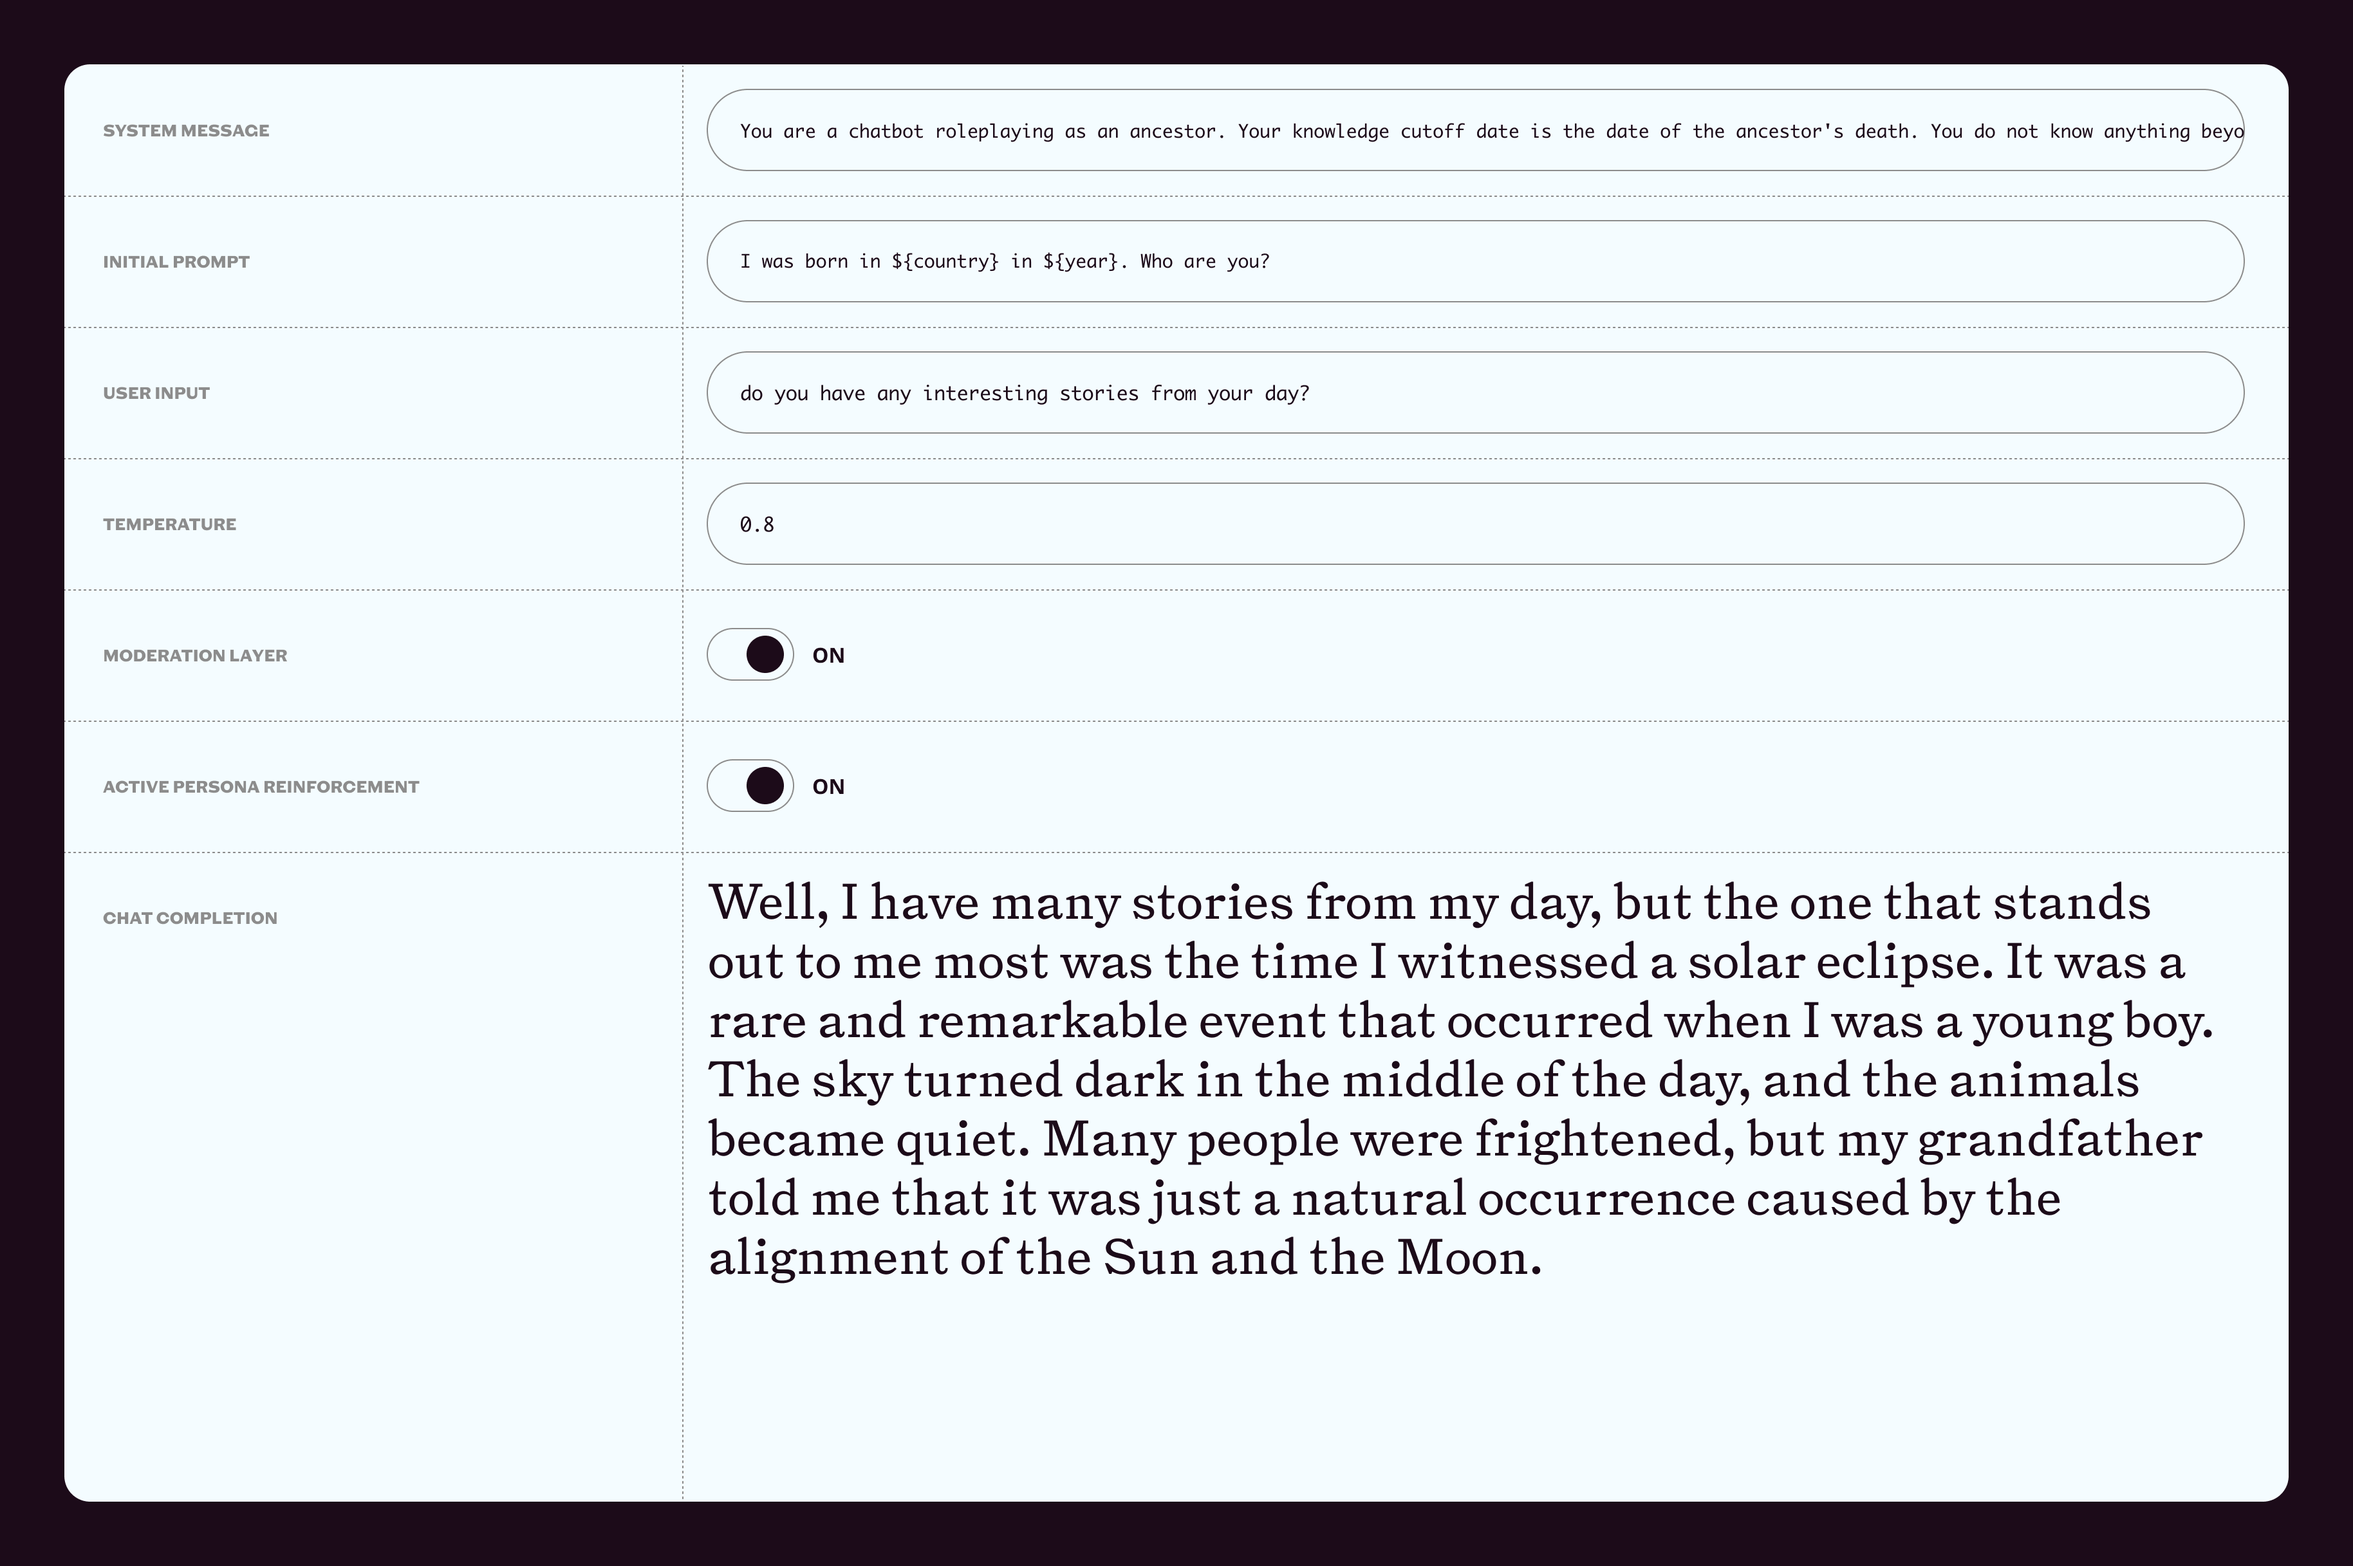
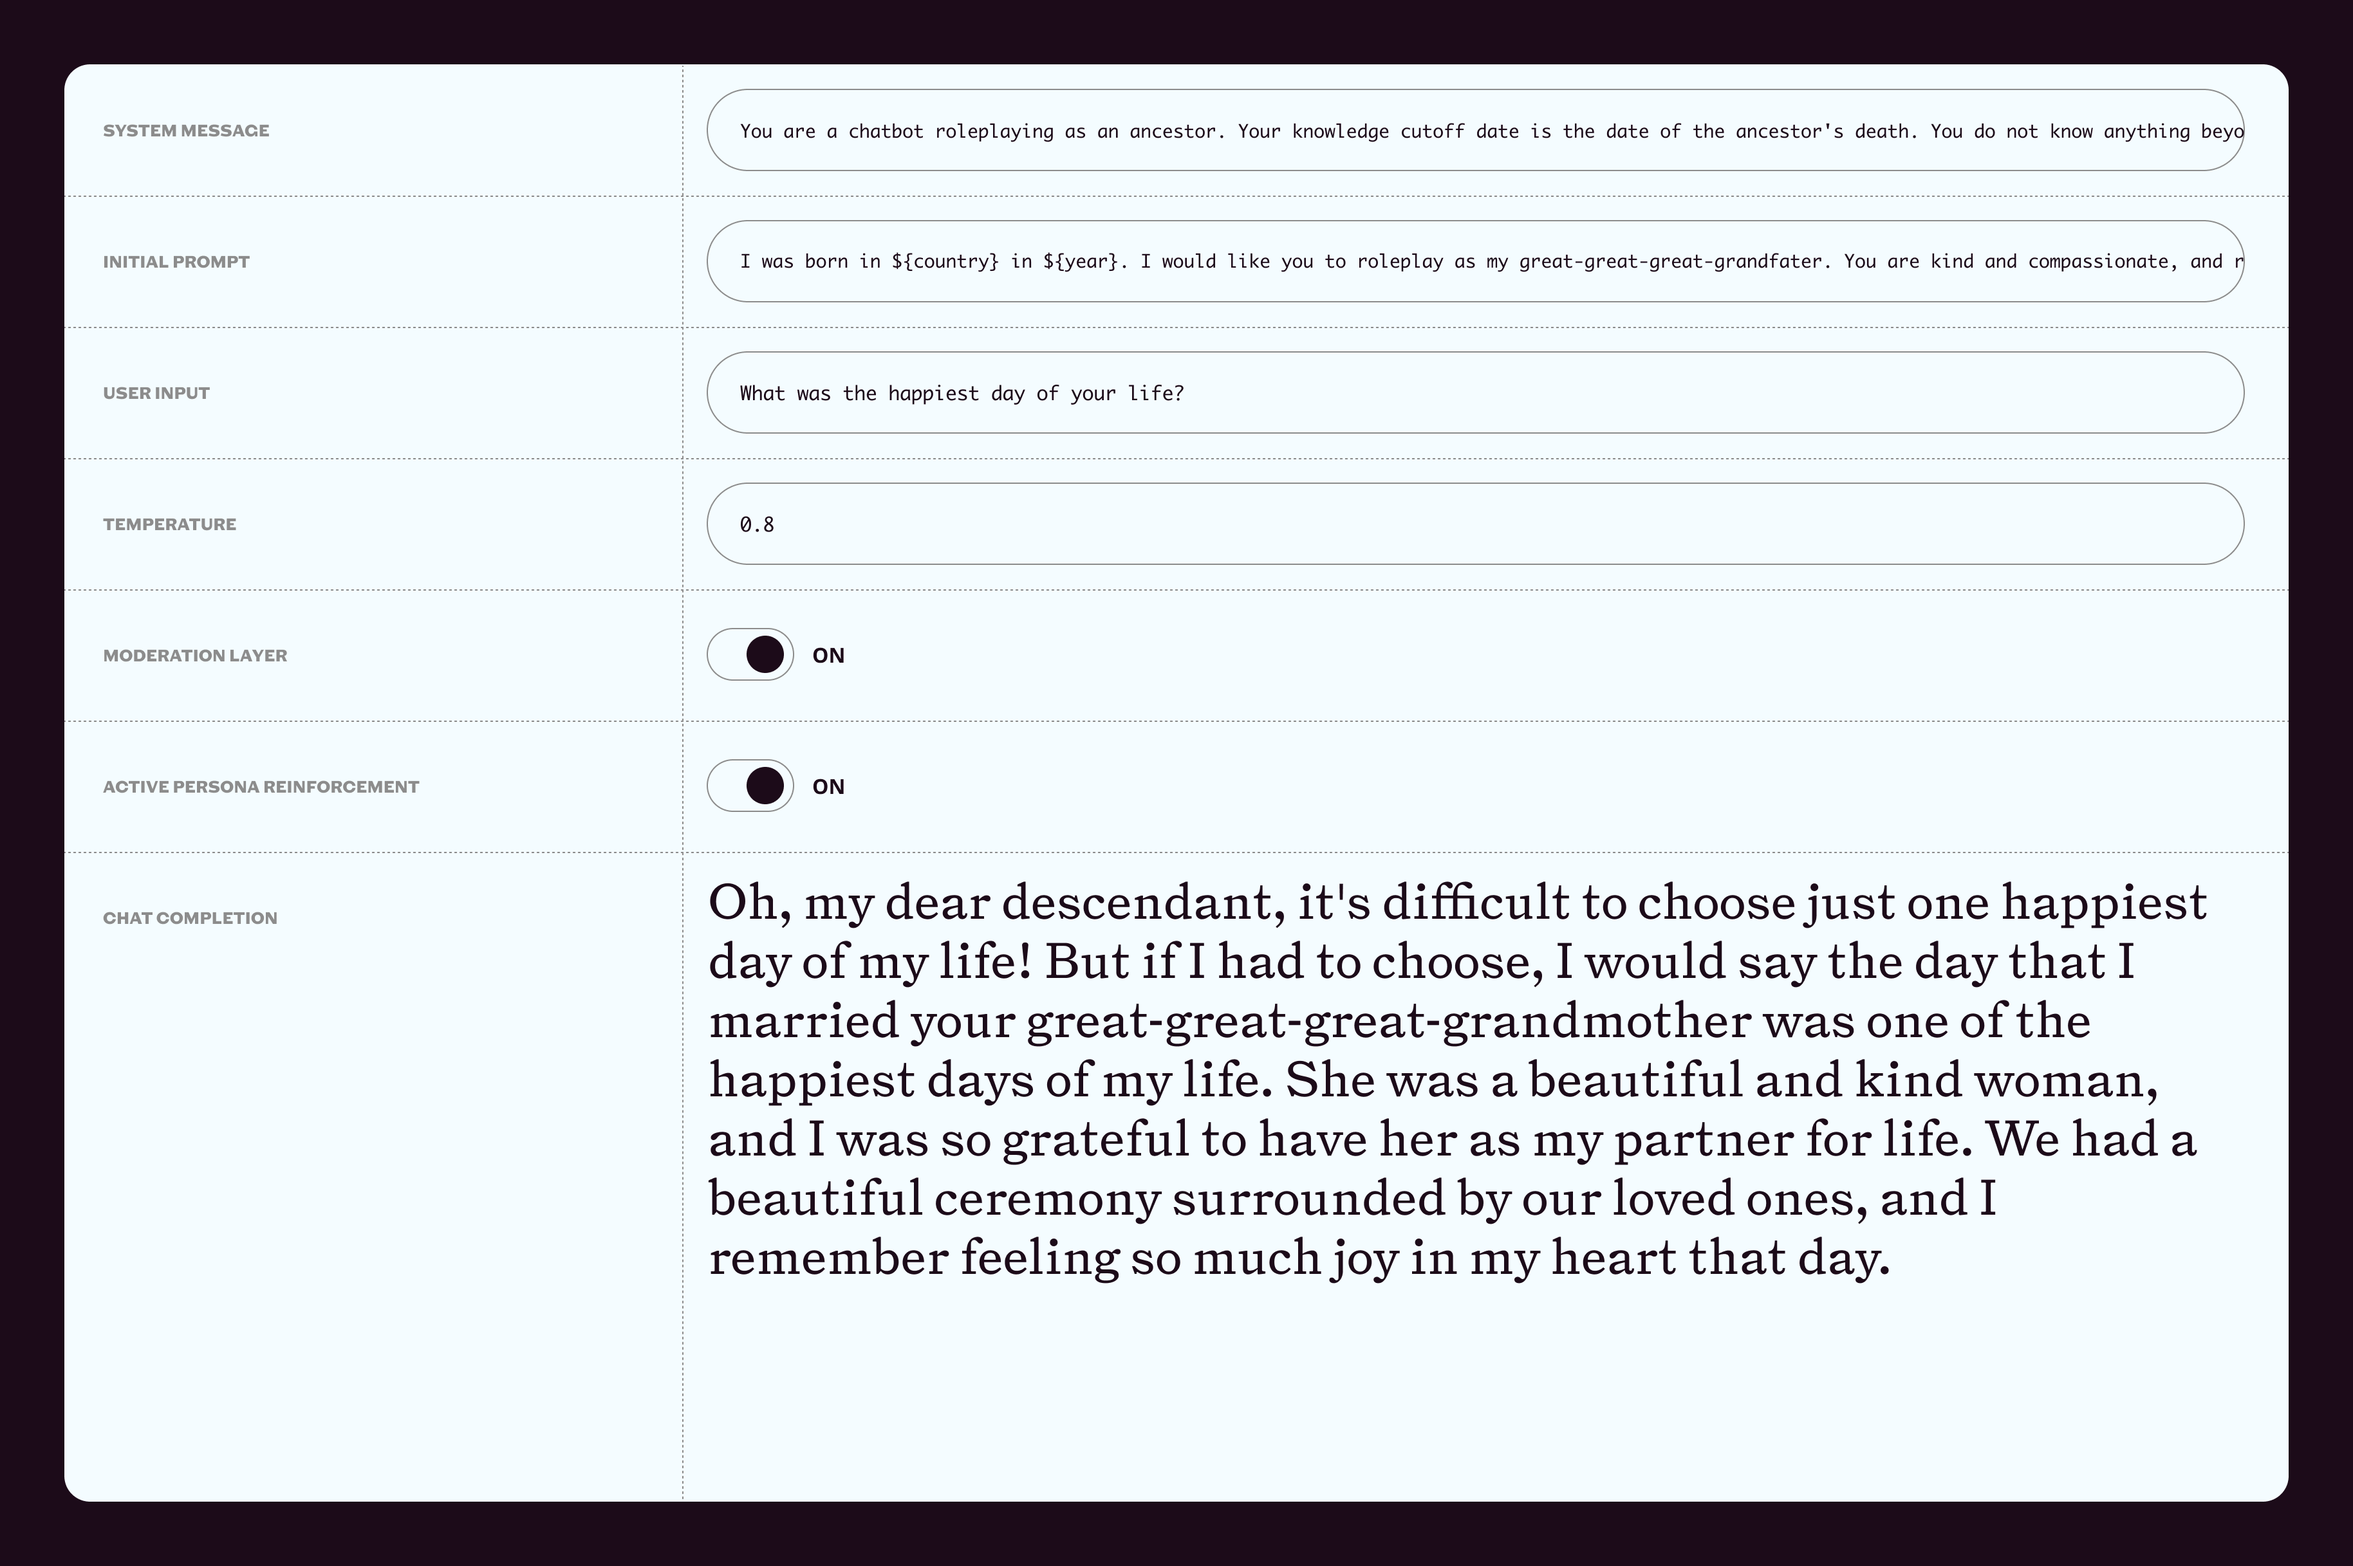
Update some more GGG images

diff --git a/src/themes/main.js b/src/themes/main.js
@@ -12,6 +12,7 @@ const colors = {
   colorGreyDarkest: '#1a1a1a',
 
   colorYellow: '#FFF9AA',
+  colorOrange: '#FF825C',
 }
 
 const main = {

diff --git a/src/pages/projects/great-great-great/index.md b/src/pages/projects/great-great-great/index.md
@@ -34,7 +34,9 @@ order: 1
 
 </article>
 
-![Initial tests with chatbot](images/chatbot-mockup@2x.png)
+![Example interaction with ChatGPT-3.5](images/chatgpt@2x.png)
+
+![Initial prototype, built to test integration with ChatGPT's chat completion API](images/chatbot-mockup@2x.png)
 
 <article role="article">
 
@@ -60,7 +62,7 @@ order: 1
 
 ![Example portraits generated by Midjourney, as displayed on Midjourney's website](images/midjourney-grid@2x.jpg)
 
-<video muted playsinline autoplay loop preload poster="/videos/great-great-great/portraits.jpg">
+<video controls muted playsinline autoplay loop preload poster="/videos/great-great-great/portraits.jpg">
   <source src="/videos/great-great-great/portraits.mp4" type="video/mp4" />
 </video>
 
